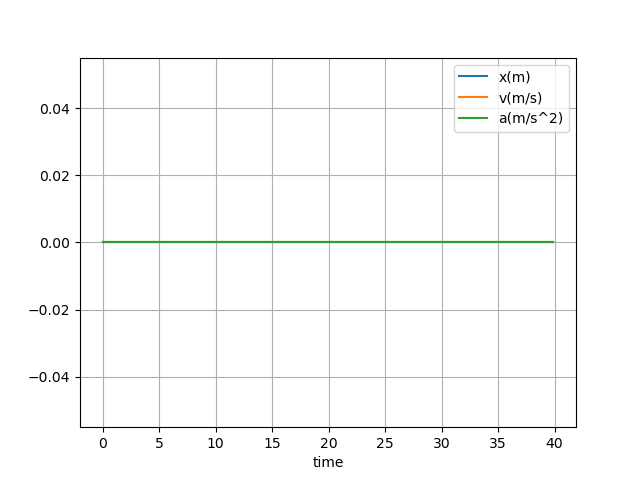
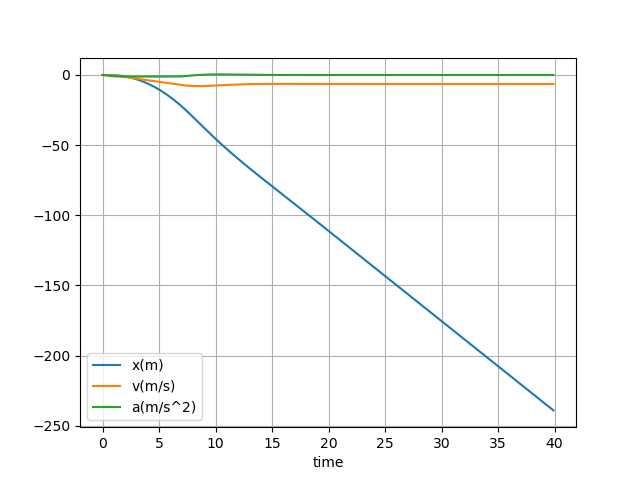
succeeded updated vehicle value

diff --git a/main.py b/main.py
@@ -44,18 +44,28 @@ us = []
 # main loop
 if __name__ == "__main__":
     for i in range(len(t)+1):
-        if i == 1:
-            diff_state[2] = 0.5
-        elif i == 200:
-            diff_state[2] = -1.5
+        # if i == 1:
+        #     diff_state[2] = 0.5
+        # elif i == 200:
+        #     diff_state[2] = -1.5
+
+        # preceding_vehicle.update(0)
+        # print(preceding_vehicle.state_value)
+        # diff_state[0] = host_vehicle.state_value[0]-preceding_vehicle.state_value[0]\
+        #     - (1.6*host_vehicle.state_value[1]+10)
+        # diff_state[1] = host_vehicle.state_value[1] - \
+        #     preceding_vehicle.state_value[1]
+        # diff_state[2] = host_vehicle.state_value[2]
+        # print('diff_state:', diff_state)
 
         u0 = mpc.return_best_u(diff_state, ref)
         print('u0:', u0)
         diff_state = diff_state+f(diff_state, u0)
-        host_vehicle.update(diff_state[2])
+        host_vehicle.update(u0)
         # print(preceding_vehicle.state_value)
         record_target(diff_state.full().tolist(), name="diff")
         plotter.record(u0, "u(m/s^2)", "diff")
+        print('host:', host_vehicle.state_value)
         record_target(host_vehicle.state_value.full().tolist(), name="host")
 
     plotter.save_graph()

diff --git a/vehicle_model.py b/vehicle_model.py
@@ -25,7 +25,7 @@ class VehicleModel():
         # the increment of the states
         increment = A @ self.state @ dt + B @ u @ dt
         # calculate the increment of the states
-        self.f = ca.Function('f', [self.state, u, a_previous, dt], [increment])
+        self.f = ca.Function('f', [self.state, u, dt], [increment])
 
         # define the initial value of the state
         self.x_value = initial_state[0]
@@ -35,7 +35,7 @@ class VehicleModel():
 
     def update(self, u, dt=0.1):
         self.state_value = self.state_value + \
-            self.f(self.state_value, self.a_value, u, dt)
+            self.f(self.state_value, u, dt)
         self.a_value = self.state_value[2]
         self.v_value = self.state_value[1]
         self.x_value = self.state_value[0]
